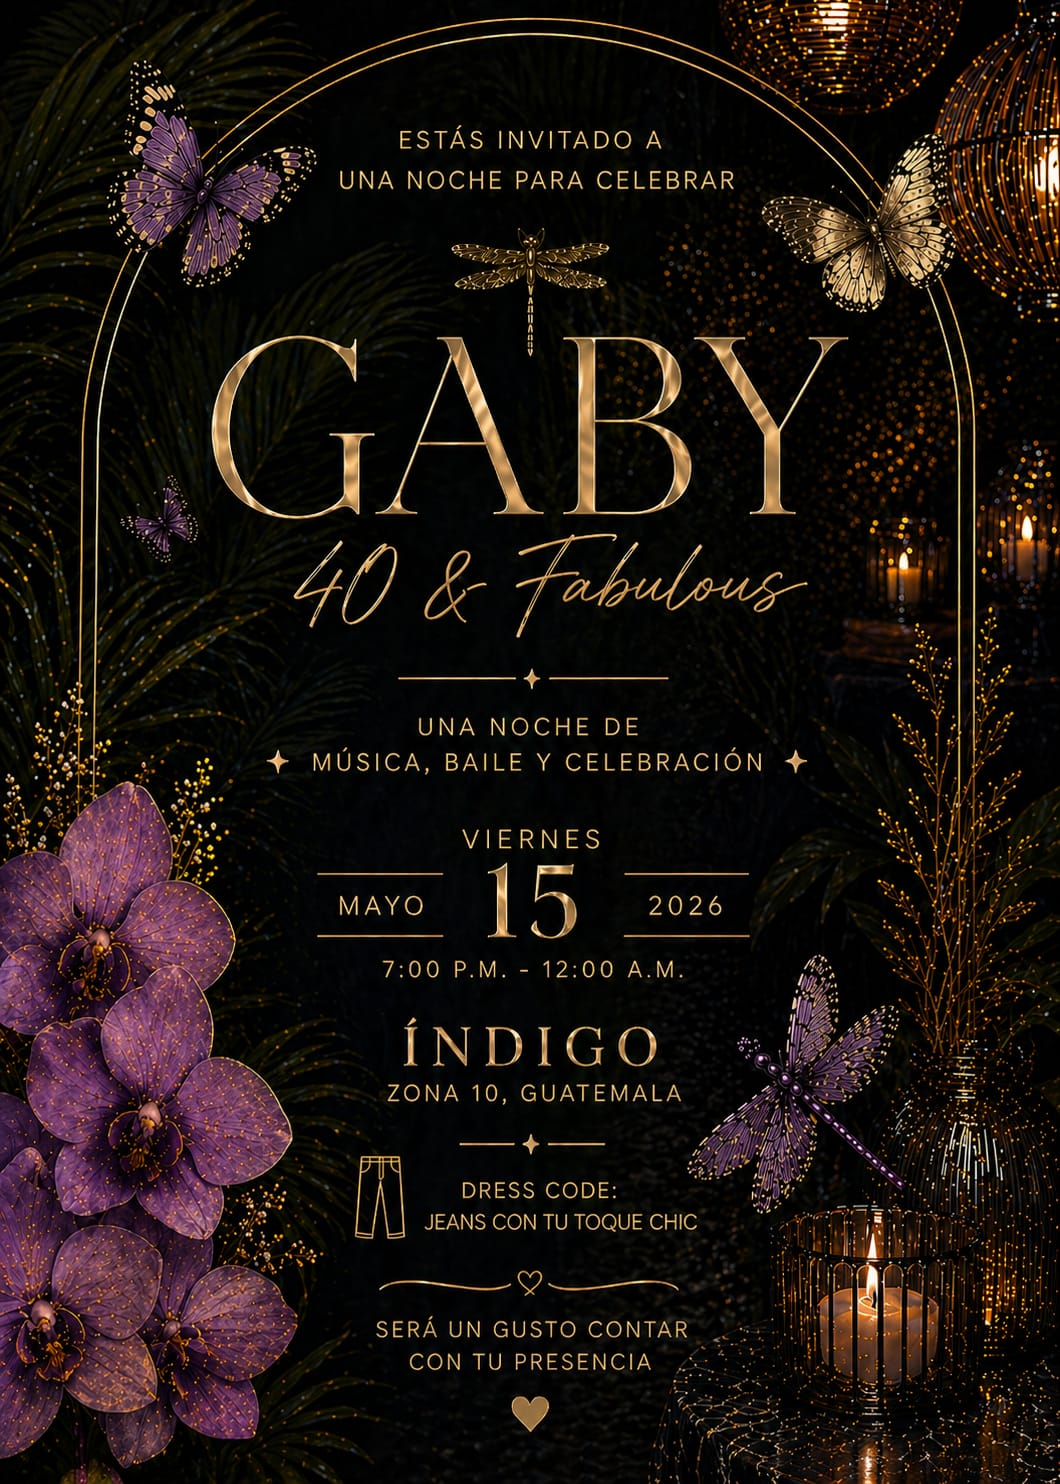
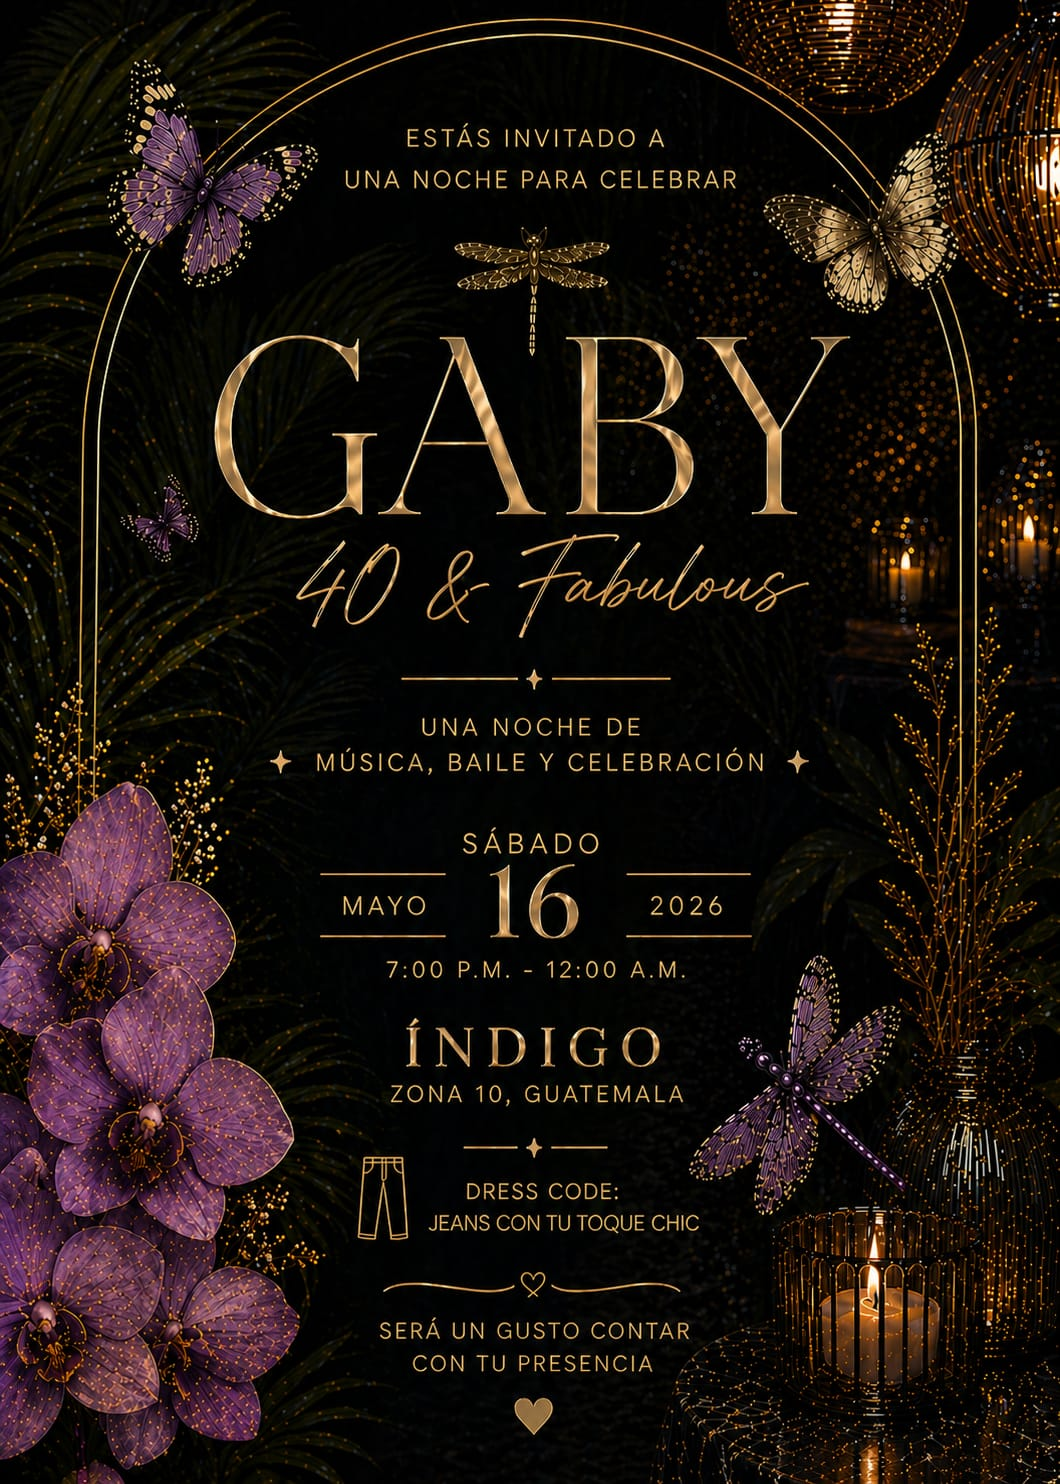
Update event date to May 16

diff --git a/app/page.tsx b/app/page.tsx
@@ -287,7 +287,7 @@ function BurstButterflyLayer({ items }: { items: BurstButterfly[] }) {
 }
 
 export default function Home() {
-  const eventDate = "2026-05-15T19:00:00";
+  const eventDate = "2026-05-16T19:00:00";
 
   const [mounted, setMounted] = useState(false);
 
@@ -784,7 +784,7 @@ export default function Home() {
                       className="flex shrink-0 items-center gap-2 whitespace-nowrap rounded-full border border-white/10 bg-white/5 px-3 py-1.5 text-[#e8ddd5]"
                     >
                       <CalendarDays className="h-4 w-4 text-[#d7b46a]" />
-                      15 de mayo
+                      16 de mayo
                     </motion.div>
 
                     <motion.div
